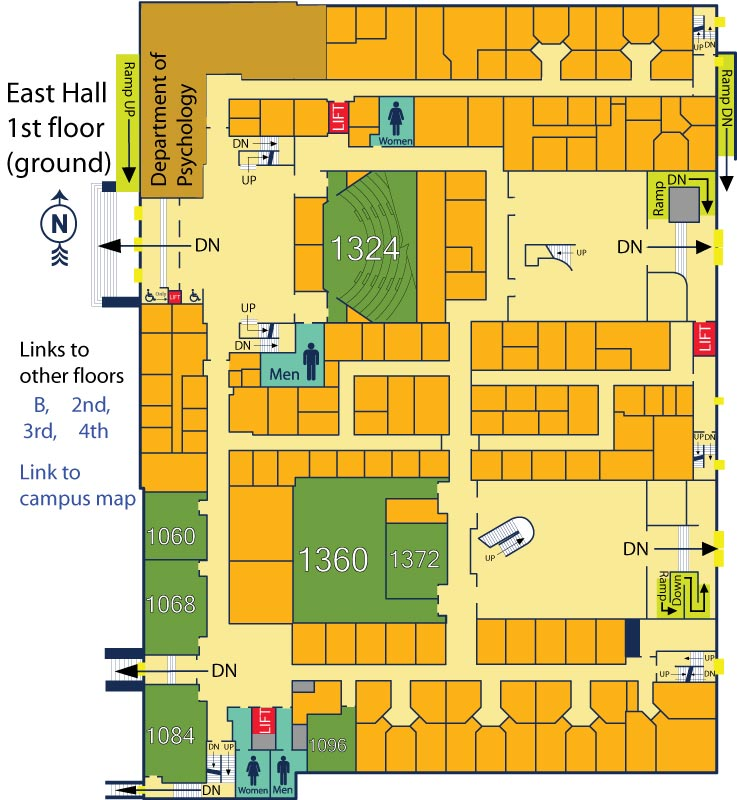
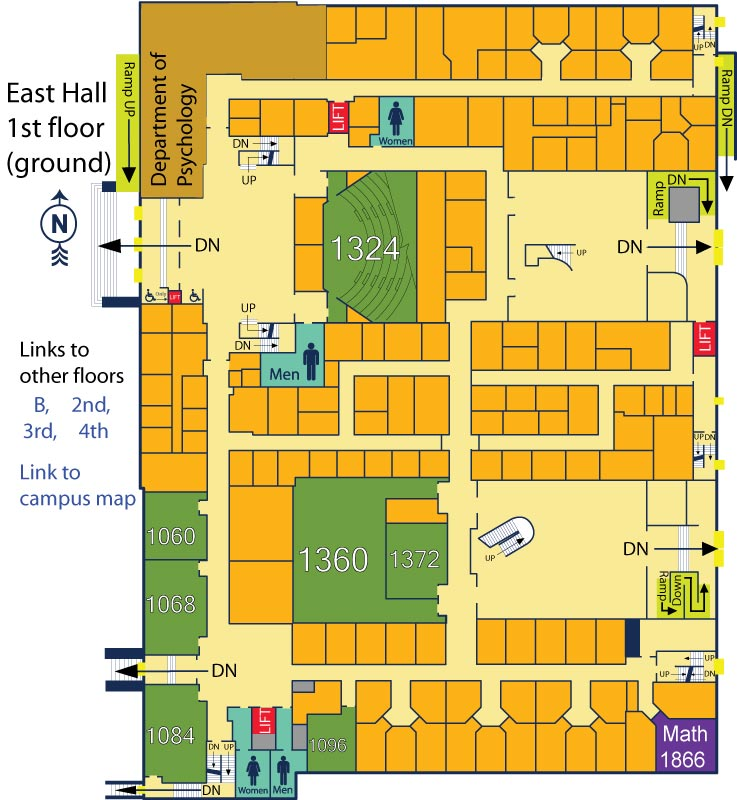
updated maps

Changed region(s): [[0.8738, 0.875, 0.9986, 0.9688]]

diff --git a/public/maps/chem1.html b/public/maps/chem1.html
@@ -5,24 +5,22 @@
 <title>Chemistry - ground</title>
 </head>
 <body>
-<img src="chem1.jpg" alt="Image of Chemistry - ground floor" width="1024" height="641" border="0" usemap="#chem1" longdesc="/images/maps/chem1.jpg" />
+<img src="chem1.jpg" alt="Image of the Chemistry Building, first, or ground, floor" width="1024" height="641" border="0" usemap="#chem1" longdesc="/images/maps/chem1.jpg" />
 <map name="chem1" id="chem1">
-  <area shape="rect" coords="108,465,198,532" href="../classrooms/CHEM1200"  alt="Link to data for room 1200" title="Link to data for room 1200" />
-  <area shape="rect" coords="107,341,196,431" href="../classrooms/CHEM1210"  alt="Link to data for room 1210" title="Link to data for room 1210" />
-  <area shape="rect" coords="215,208,265,261" href="../classrooms/CHEM1239" alt="Link to data for room 1239" title="Link to data for room 1239" />
-  <area shape="rect" coords="214,263,264,313" href="../classrooms/CHEM1231" alt="Link to data for room 1231" title="Link to data for room 1231" />
-  <area shape="rect" coords="264,304,353,417" href="../classrooms/CHEM1400"  alt="Link to data for room 1400" title="Link to data for room 1400" />
-  <area shape="rect" coords="266,209,334,299" href="../classrooms/CHEM1300"  alt="Link to data for room 1300" title="Link to data for room 1300" />
-  <area shape="rect" coords="726,120,845,198" href="../classrooms/CHEM1640"  alt="Link to data for room 1640" title="Link to data for room 1640" />
-  <area shape="rect" coords="42,560,234,582" href="chema8.html"  alt="Link to basement atrium" title="Link to basement atrium" />
-  <area shape="rect" coords="45,597,267,622" href="index.html"  alt="Link to campus map" />
-  <area shape="rect" coords="661,59,710,101" href="../classrooms/CHEM1624"  alt="Link to data for room 1624" title="Link to data for room 1624" />
-  <area shape="rect" coords="716,61,776,101" href="../classrooms/CHEM1628"  alt="Link to data for room 1628" title="Link to data for room 1628" />
-  <area shape="rect" coords="780,61,839,102" href="../classrooms/CHEM1632"  alt="Link to data for room 1632" title="Link to data for room 1632" />
-  <area shape="rect" coords="846,61,904,99" href="../classrooms/CHEM1636"  alt="Link to data for room 1636" title="Link to data for room 1636" />
-  <area shape="rect" coords="649,143,723,197" href="../classrooms/CHEM1650"  alt="Link to data for room 1650" title="Link to data for room 1650" />
-  <area shape="poly" coords="838,258,918,179,939,190,986,275,985,347,940,428,917,445,838,366" href="../classrooms/CHEM1800"  alt="Link to data for room 1800" title="Link to data for room 1800" />
-  <area shape="poly" coords="867,435,968,534,968,546,839,546,840,558,749,558,750,516,629,516,605,492,658,440,742,439,742,424,772,424,772,436" href="http://www.lsa.umich.edu/slc/" target="blank" alt="link to the SLC home page" title="link to the SLC home page" />
+  <area shape="rect" coords="42,560,234,582" href="chema.html" target="_self" alt="Link to basement atrium" title="Link to basement atrium" />
+  <area shape="rect" coords="45,597,267,622" href="diag.html" target="_self" alt="Link to campus map" />
+  <area shape="rect" coords="108,465,198,532" href="../classrooms/CHEM1200" target="_self" alt="Link to data for room 1200" title="Link to data for room 1200" />
+  <area shape="rect" coords="107,341,196,431" href="../classrooms/CHEM1210" target="_self" alt="Link to data for room 1210" title="Link to data for room 1210" />
+  <area shape="rect" coords="266,209,334,299" href="../classrooms/CHEM1300" target="_self" alt="Link to data for room 1300" title="Link to data for room 1300" />
+  <area shape="rect" coords="264,304,353,417" href="../classrooms/CHEM1400" target="_self" alt="Link to data for room 1400" title="Link to data for room 1400" />
+  <area shape="rect" coords="726,120,845,198" href="../classrooms/CHEM1640" target="_self" alt="Link to data for room 1640" title="Link to data for room 1640" />
+  <area shape="rect" coords="661,59,710,101" href="../classrooms/CHEM1624" target="_self" alt="Link to data for room 1624" title="Link to data for room 1624" />
+  <area shape="rect" coords="716,61,776,101" href="../classrooms/CHEM1628" target="_self" alt="Link to data for room 1628" title="Link to data for room 1628" />
+  <area shape="rect" coords="780,61,839,102" href="../classrooms/CHEM1632" target="_self" alt="Link to data for room 1632" title="Link to data for room 1632" />
+  <area shape="rect" coords="846,61,904,99" href="../classrooms/CHEM1636" target="_self" alt="Link to data for room 1636" title="Link to data for room 1636" />
+  <area shape="rect" coords="649,143,723,197" href="../classrooms/CHEM1650" target="_self" alt="Link to data for room 1650" title="Link to data for room 1650" />
+  <area shape="poly" coords="838,258,918,179,939,190,986,275,985,347,940,428,917,445,838,366" href="../classrooms/CHEM1800" target="_self" alt="Link to data for room 1800" title="Link to data for room 1800" />
+  <area shape="poly" coords="867,435,968,534,968,546,839,546,840,558,749,558,750,516,629,516,605,492,658,440,742,439,742,424,772,424,772,436" href="http://www.lsa.umich.edu/slc/" target="_blank" alt="link to the SLC home page" title="link to the SLC home page" />
 </map>
 </body>
 </html>

diff --git a/public/maps/agrmu2.html b/public/maps/agrmu2.html
@@ -1,15 +1,17 @@
-<!DOCTYPE html PUBLIC "-//W3C//DTD XHTML 1.0 Transitional//EN" "http://www.w3.org/TR/xhtml1/DTD/xhtml1-transitional.dtd">
-<html xmlns="http://www.w3.org/1999/xhtml">
+<!DOCTYPE html>
 <head>
 <meta http-equiv="Content-Type" content="text/html; charset=utf-8" />
 <title>2nd floor Ruthven Museum</title>
 </head>
 <body>
-<img src="agrmu2.jpg" alt="Ruthven Museum" width="658" height="600" border="0" usemap="#agrmu2" />
+<img src="agrmu2.jpg" alt="Ruthven Museum" width="1024" height="473" usemap="#agrmu2" />
 <map name="agrmu2" id="agrmu2">
-  <area shape="rect" coords="225,58,461,85" href="index.html"  alt="to the campus map" title="to the campus map" />
-  <area shape="rect" coords="23,55,206,83" href="agrmu1.html" alt="to the 1st floor" title="to the 1st floor" />
-  <area shape="rect" coords="304,109,581,231" href="../classrooms/AGRMU2009"  alt="to the data for room 2009" title="to the data for room 2009" />
+  <area shape="rect" coords="168,30,374,69" href="index.html"  alt="to the campus map" title="to the campus map" />
+  <area shape="rect" coords="9,30,162,74" href="agrmu1.html" alt="to the 1st floor" title="to the 1st floor" />
+  <area shape="rect" coords="229,78,442,175" href="../classrooms/AGRMU2009"  alt="to the data for room 2009" title="to the data for room 2009" />
+  <area shape="rect" coords="439,78,552,175" href="../classrooms/AGRMU2015"  alt="to the data for room 2015" title="to the data for room 2015" />
+  <area shape="rect" coords="662,79,822,177" href="../classrooms/AGRMU2021"  alt="to the data for room 2021" title="to the data for room 2021" />
+  <area shape="rect" coords="819,79,987,177" href="../classrooms/AGRMU2031"  alt="to the data for room 2031" title="to the data for room 2031" />
 </map>
 </body>
 </html>

diff --git a/public/maps/denn1.html b/public/maps/denn1.html
@@ -1,5 +1,5 @@
-
-<!DOCTYPE html><head>
+<!DOCTYPE html>
+<head>
 <title>Dennison - First Floor</title>
 <style>
 img{padding:5px;margin:5px; z-index:-1}
@@ -19,8 +19,7 @@ a:hover{text-decoration:underline}
 <p class="bldg" style="left:50px; top:236px; z-index:0;">Dennison Building First Floor</p>
 <p style="left:50px; top:300px;">Other Floors with Classrooms:</p>
 <a style="left:50px; top:340px;" href="denn2.html" title="link to 2nd Floor" alt="link to 2nd Floor"><b>link to 2nd Floor</b></a>
-<a style="left:50px; top:370px;" href="denn8.html" title="link to 8th Floor" alt="link to 8th Floor"><b>link to 8th Floor</b></a>
-<a style="left:50px; top:400px;" href="index.html"  alt="link campus map" title="link to campus map"><b>link to campus map</b></a>
+<a style="left:50px; top:370px;" href="index.html"  alt="link campus map" title="link to campus map"><b>link to campus map</b></a>
 
 <map name="denn1" id="denn1">
   <area shape="rect" coords="81,37,170,140" href="../classrooms/DENN110" target="_self" alt="Link to data room 110" title="Link to data room 110" />

diff --git a/public/maps/denn2.html b/public/maps/denn2.html
@@ -1,5 +1,5 @@
-
-<!DOCTYPE html><head>
+<!DOCTYPE html>
+<head>
 <title>Dennison - second Floor</title>
 <style>
 img{padding:5px;margin:5px; z-index:-1}
@@ -18,8 +18,7 @@ a:hover{text-decoration:underline}
 <p class="bldg" style="left:50px; top:240px;">Dennison Building Second Floor</p>
 <p style="left:50px; top:300px;">Other Floors with Classrooms:</p>
 <a style="left:50px; top:340px;" href="denn1.html" title="link to 1st Floor" alt="link to 1st Floor"><b>link to 1st Floor</b></a>
-<a style="left:50px; top:370px;" href="denn8.html" title="link to 8th Floor" alt="link to 8th Floor"><b>link to 8th Floor</b></a>
-<a style="left:50px; top:400px;" href="index.html"  alt="link campus map" title="link to campus map"><b>link to campus map</b></a>
+<a style="left:50px; top:370px;" href="index.html"  alt="link campus map" title="link to campus map"><b>link to campus map</b></a>
 
 <map name="denn2" id="denn2">
   <area shape="rect" coords="88,2,111,83" href="ccl2.html" target="_self" alt="Link to 2nd floor ccl" title="Link to 2nd floor ccl" />

diff --git a/public/maps/eh1.html b/public/maps/eh1.html
@@ -1,5 +1,5 @@
-<!DOCTYPE html PUBLIC "-//W3C//DTD XHTML 1.0 Transitional//EN" "http://www.w3.org/TR/xhtml1/DTD/xhtml1-transitional.dtd">
-<html xmlns="http://www.w3.org/1999/xhtml">
+
+<!DOCTYPE html>
 <head>
 <meta http-equiv="Content-Type" content="text/html; charset=utf-8" />
 <title>East Hall - floor 1</title>
@@ -19,6 +19,7 @@
   <area shape="poly" coords="322,205,370,171,415,172,415,320,372,322,323,288" href="../classrooms/EH1324" target="_self" alt="Link to data room 1324" title="Link to data room 1324" />
   <area shape="rect" coords="296,479,385,622" href="../classrooms/EH1360" target="_self" alt="Link to data room 1360" title="Link to data room 1360" />
   <area shape="rect" coords="387,523,447,598" href="../classrooms/EH1372" target="_self" alt="Link to data room 1372" title="Link to data room 1372" />
+  <area shape="rect" coords="649,709,718,773" href="../classrooms/EH1866" target="_self" alt="Link to data room 1866" title="Link to data room 1866" />
 </map>
 </body>
 </html>
